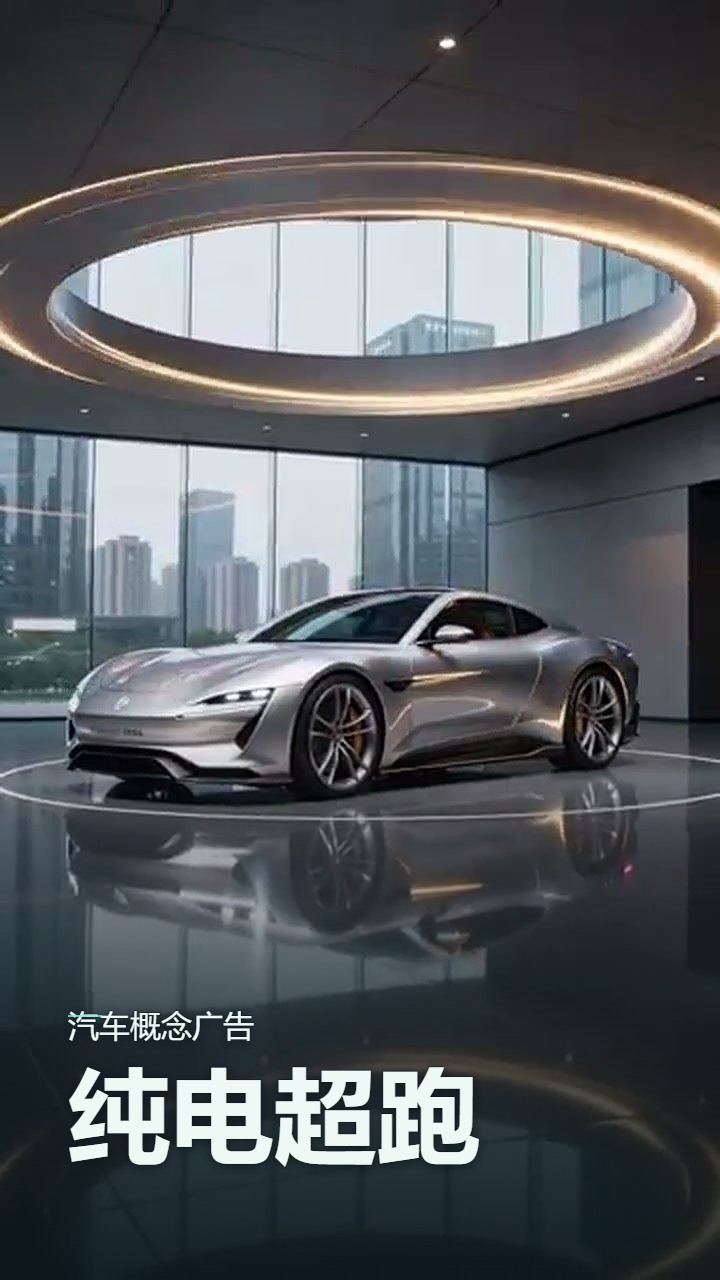
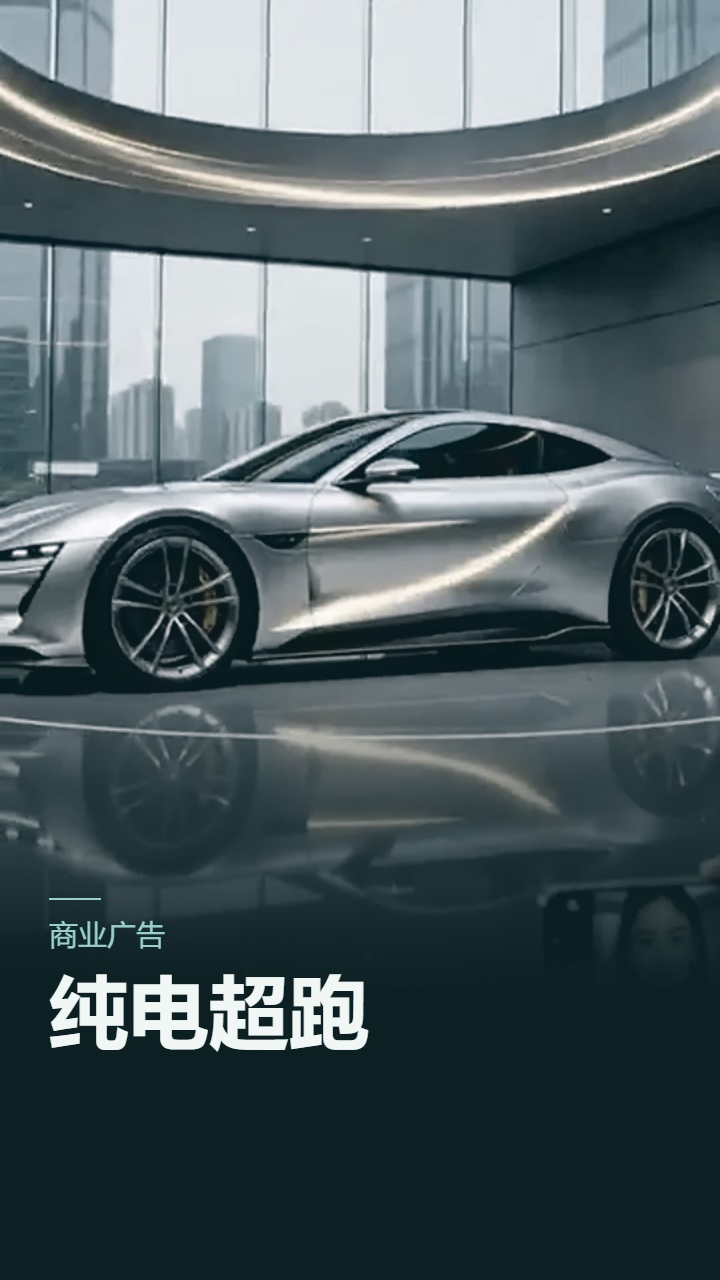
Unify portrait posters and fill selected design galleries

diff --git a/works.html b/works.html
@@ -16,7 +16,7 @@
 @import url('https://fonts.googleapis.com/css2?family=Archivo:wdth,wght@112,800&family=Inter:wght@400&family=JetBrains+Mono&family=Ms+Madi&display=swap');
 *{box-sizing:border-box;margin:0;padding:0}html{background:#091618;color:white;font-family:Inter,Arial,sans-serif;-webkit-font-smoothing:antialiased}body{overflow-x:hidden}a{color:inherit;text-decoration:none}button{color:inherit;background:none;border:0;font:inherit;cursor:pointer}a,button{position:relative}nav a:after,nav button:after{content:'';position:absolute;bottom:-3px;left:0;width:100%;height:1px;background:currentColor;transform:scaleX(0);transform-origin:right;transition:transform .35s}nav a:hover:after,nav button:hover:after{transform:scaleX(1);transform-origin:left}:root{--u:min(.069444vw,.111111vh);--x:.069444vw}#gl{position:fixed;inset:0;width:100%;height:100%;pointer-events:none}nav,footer{position:fixed;left:0;right:0;z-index:20;display:flex;align-items:center;justify-content:space-between;padding:0 calc(63 * var(--x));font-family:'JetBrains Mono',monospace;font-size:max(11px,calc(16.7 * var(--u)))}nav{top:0;height:max(36px,calc(36 * var(--u)))}.brand{font-family:Archivo,sans-serif;font-weight:800;font-size:max(12px,calc(16 * var(--u)))}.links{display:flex;gap:calc(50 * var(--x))}footer{bottom:calc(28 * var(--u));height:calc(58 * var(--u));display:grid;grid-template-columns:1fr auto 1fr}footer svg{justify-self:end;width:calc(47 * var(--u))}.clock{white-space:pre}.screen{position:relative;height:100svh;min-height:600px;z-index:1}.frame{position:absolute;inset:0}.frame>div,.frame>h1{position:absolute}.lede{left:calc(63 * var(--x));top:calc(68 * var(--u));font-size:calc(30 * var(--u));line-height:1.23}.mono{font:calc(16.7 * var(--u))/1.5 'JetBrains Mono',monospace;top:calc(70 * var(--u))}.one{left:calc(505 * var(--x))}.two{left:calc(957 * var(--x))}h1{left:calc(60 * var(--x));bottom:calc(126 * var(--u));font:800 calc(77 * var(--u))/.99 Archivo,Arial,sans-serif;letter-spacing:-.012em;text-transform:uppercase}h1 span{display:block;overflow:hidden;padding-bottom:4px;margin-bottom:-4px}h1 em{display:block;font-style:normal}.grid{position:absolute;inset:0;pointer-events:none}.grid i{position:absolute;background:#ffffff20}.grid .v{top:0;bottom:0;width:1px}.grid .h{left:0;right:0;height:1px}.grid b{position:absolute;width:13px;height:13px;transform:translate(-50%,-50%);opacity:.5}.grid b:before,.grid b:after{content:'';position:absolute;background:white}.grid b:before{left:6px;width:1px;height:13px}.grid b:after{top:6px;height:1px;width:13px}.portrait{left:calc(62 * var(--x));top:calc(179 * var(--u));width:calc(321 * var(--u));height:calc(323 * var(--u));background:#12302f}.signature{left:calc(34 * var(--x));top:calc(172 * var(--u));font:calc(112 * var(--u))/1 'Ms Madi',cursive;color:#7aeed6;transform:rotate(-17deg);text-shadow:0 0 7px #16c6a4,0 0 18px #16c6a488}.statement,.history{left:calc(509 * var(--x));font-size:calc(55.5 * var(--u));line-height:1.1;letter-spacing:-.005em}.statement{top:calc(166 * var(--u))}.history{top:calc(453 * var(--u));color:#87999a}.row{display:block;white-space:nowrap}.history a{color:white;background:linear-gradient(white,white) left bottom/100% 3px no-repeat;transition:.3s}.history a:hover{color:#b8f4e6;background-size:0 3px}.dots{width:64px;height:64px;background:radial-gradient(circle,#ffffff88 1px,transparent 1.5px) 0 0/8px 8px;mask-image:radial-gradient(black,transparent 70%);opacity:.45}.d1{left:21%;top:70%}.d2{left:70%;top:79%}.no-gl #hero{background:linear-gradient(160deg,#06252c,#0f4a48 55%,#2a8f80)}.no-gl #about{background:#091618}@media(max-width:820px){nav{height:52px;padding:0 18px}.links{gap:14px;font-size:12px}.links button,footer,.grid,.dots,.two{display:none}.brand{font-size:14px}.screen{height:auto;min-height:100svh}.frame{position:relative;display:flex;flex-direction:column;padding:76px 18px 0;min-height:100svh}.frame>div,.frame>h1{position:relative;left:auto;top:auto;bottom:auto}.lede{font-size:24px}.mono{font-size:12.5px;margin-top:14px}h1{font-size:clamp(30px,8.14vw,55px);margin-top:auto;padding:300px 0 40px}#about .frame{padding:60px 18px 70px}.portrait{width:220px;height:222px;margin:40px 0 0 10px}.frame>.signature{position:absolute;left:4px;top:64px;font-size:92px}.statement,.history{font-size:29px;margin-top:34px;line-height:1.16}.history{margin-top:22px}.row{display:inline;white-space:normal}.row:after{content:' '}}@media(prefers-reduced-motion:reduce){*{animation:none!important;transition:none!important}html{scroll-behavior:auto}}
 </style>
-<link rel="stylesheet" href="./portfolio.css?v=design-screenshots">
+<link rel="stylesheet" href="./portfolio.css?v=framing-2026">
 </head><body class="works-page">
 <nav class="site-nav" aria-label="主导航">
   <a class="brand" href="./">候宇<small>HOU YU</small></a>
@@ -77,5 +77,5 @@
 </dialog>
   <noscript><p class="band">请启用 JavaScript 浏览作品。</p></noscript>
 </main>
-<script type="module" src="./portfolio.mjs?v=design-screenshots"></script>
+<script type="module" src="./portfolio.mjs?v=framing-2026"></script>
 </body></html>

diff --git a/portfolio.css b/portfolio.css
@@ -186,6 +186,7 @@ details{border-top:1px solid var(--line);padding:12px 0}summary{cursor:pointer}p
 .design-frame{display:block;width:100%;aspect-ratio:16/9;padding:0;border:0;overflow:hidden;background:var(--frame-color);cursor:zoom-in}
 .design-frame:focus-visible{outline-offset:-3px}
 .design-frame img{display:block;width:100%;height:100%;object-fit:contain}
+.design-frame[data-crop] img{object-fit:cover;object-position:50% var(--crop-position)}
 html:has(#design-project[open]){overflow:hidden;scrollbar-gutter:stable}
 #design-project{
   position:fixed;
